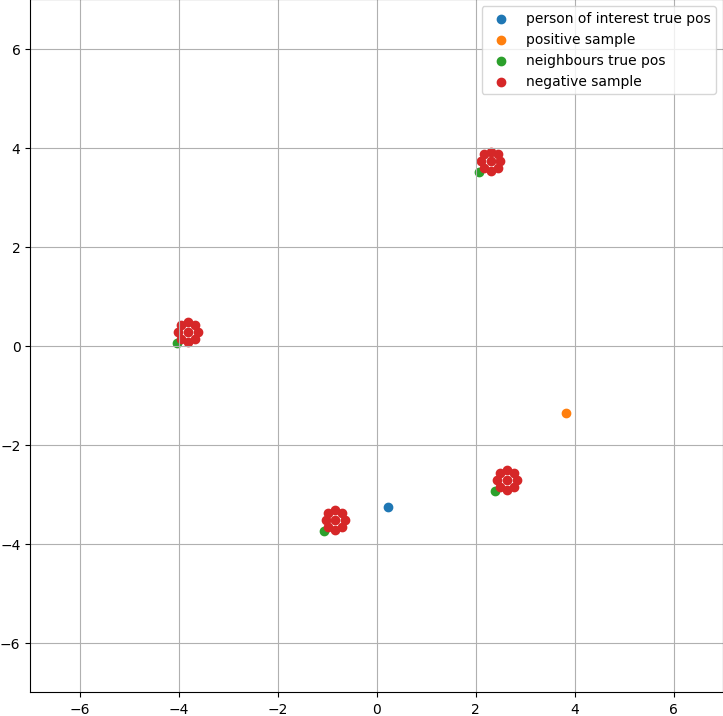
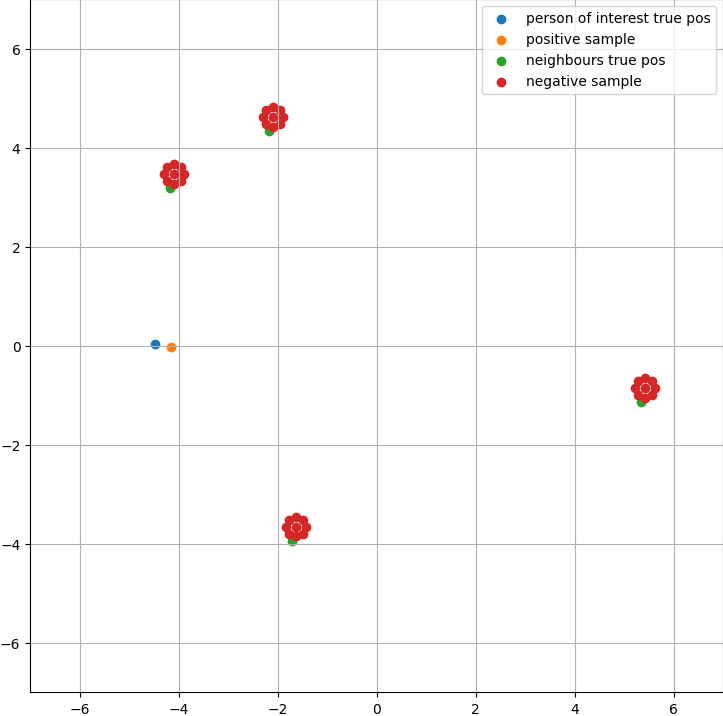
Solve visualization bug of 'true position of pedestrian of interest'

diff --git a/trajnetbaselines/lstm/contrastive.py b/trajnetbaselines/lstm/contrastive.py
@@ -79,8 +79,7 @@ class SocialNCE():
         # traj_primary: 21x2 (time x coordinate)
         # traj_neighbour: 21x3x2 (time x persons x coordinate)
 
-        (sample_pos, sample_neg) = self._sampling_spatial(batch_scene,
-                                                          batch_split)  # TODO pytorch tensor instead
+        (sample_pos, sample_neg) = self._sampling_spatial(batch_scene, batch_split)  # TODO pytorch tensor instead
 
         # visualisation
         visualize = 1
@@ -99,11 +98,15 @@ class SocialNCE():
                 #     ax.plot(neighbor[:, i, 0], neighbor[:, i, 1], 'b-.')
 
                 # Displaying the positions of the person of interest
-                # TODO: there is a bug
-                #  Very strange: the first picture is systematically always good! But not the following ones...
+                # TODO: Remove next lines of comments once you have understood why we had a visualization problem here!
                 # True position
-                ax.scatter(batch_scene[self.obs_length, i, 0],
-                           batch_scene[self.obs_length, i, 1],
+                # False ❌:
+                # ax.scatter(batch_scene[self.obs_length, i, 0],
+                #            batch_scene[self.obs_length, i, 1],
+                #            label="person of interest true pos")
+                # Correct ✅:
+                ax.scatter(batch_scene[self.obs_length, batch_split[i], 0],
+                           batch_scene[self.obs_length, batch_split[i], 1],
                            label="person of interest true pos")
                 # Positive sample
                 ax.scatter(sample_pos[i, 0], sample_pos[i, 1],
@@ -111,10 +114,8 @@ class SocialNCE():
 
                 # Displaying the position of the neighbours
                 # True position
-                ax.scatter(batch_scene[self.obs_length,
-                           batch_split[i] + 1:batch_split[i + 1], 0].view(-1),
-                           batch_scene[self.obs_length,
-                           batch_split[i] + 1:batch_split[i + 1], 1].view(-1),
+                ax.scatter(batch_scene[self.obs_length, batch_split[i] + 1:batch_split[i + 1], 0].view(-1),
+                           batch_scene[self.obs_length, batch_split[i] + 1:batch_split[i + 1], 1].view(-1),
                            label="neighbours true pos")
                 # Negative sample
                 ax.scatter(sample_neg[i, :, 0].view(-1),
@@ -136,10 +137,8 @@ class SocialNCE():
         # -----------------------------------------------------
         # 12x40x8                             12x40x128
         interestsID = batch_split[0:-1]
-        emb_obsv = self.head_projection(batch_feat[self.obs_length, interestsID,
-                                        :])  # TODO should not the whole batch
-        query = nn.functional.normalize(emb_obsv,
-                                        dim=-1)  # TODO might not be dim 1
+        emb_obsv = self.head_projection(batch_feat[self.obs_length, interestsID, :])  # TODO should not the whole batch
+        query = nn.functional.normalize(emb_obsv, dim=-1)  # TODO might not be dim 1
 
         # Embedding is not necessarily a dimension reduction process! Here we
         # want to find a way to compute the similarity btw. the motion features
@@ -167,8 +166,7 @@ class SocialNCE():
                                            mask_normal_space[:, :, 1])
         sim_neg[mask_new_space] = -10
 
-        logits = torch.cat([sim_pos, sim_neg],
-                           dim=-1) / self.temperature  # Warning! Pos and neg samples are concatenated!
+        logits = torch.cat([sim_pos, sim_neg], dim=-1) / self.temperature  # Warning! Pos and neg samples are concatenated!
 
         # -----------------------------------------------------
         #                       NCE Loss
@@ -193,8 +191,12 @@ class SocialNCE():
         # gt_future = batch_scene[self.obs_length: self.obs_length+self.pred_length]
 
         # Selecting only the first pred sample (i.e. the prediction for the first timestamp)
-        # (persons x coordinates) --> for instance 39 x 2
+        # (persons x coordinates) --> gt_future is for instance of size 39 x 2
         gt_future = batch_scene[self.obs_length]
+        # Note: Since the first 9 frames of the scene correspond to observations
+        # and since Python uses zero-based indexing, the first location prediction
+        # sample (i.e. the 10th element in batch_scene) is accessed as
+        # "batch_scene[9]" (i.e. "batch_scene[self.obs_length]")
 
         # #####################################################
         #           TODO: fill the following code
@@ -211,14 +213,18 @@ class SocialNCE():
 
         c_e = self.noise_local
         # Retrieving the location of the pedestrians of interest only
-        personOfInterestLocation = gt_future[batch_split[0:-1],
-                                   :]  # (persons of interest x coordinates) --> for instance: 8 x 2
-        noise = np.random.multivariate_normal([0, 0], np.array(
-            [[c_e, 0], [0, c_e]]))  # (2,)
+        personOfInterestLocation = gt_future[batch_split[0:-1], :]  # (persons of interest x coordinates) --> for instance: 8 x 2
+        noise_pos = np.random.multivariate_normal([0, 0], np.array([[c_e, 0], [0, c_e]]))  # (2,)
         #                      8 x 2                   1 x 2
         # sample_pos = personOfInterestLocation + noise.reshape(1, 2) # TODO, maybe diff noise for each person (/!\ --> apparently not necessary finally, according to Liu)
         #                      8 x 2             (2,)
-        sample_pos = personOfInterestLocation + noise
+        sample_pos = personOfInterestLocation + noise_pos
+
+        # This ⤵ is equivalent to the line above ⤴
+        # sample_pos_2 = torch.zeros(personOfInterestLocation.size())
+        # for i in range(len(personOfInterestLocation)):
+        #     sample_pos_2[i] = personOfInterestLocation[i] + noise
+
         a = 1 + 1
 
         # Retrieving the location of all pedestrians
@@ -245,27 +251,24 @@ class SocialNCE():
         
         '''
         nDirection = self.agent_zone.shape[0]
-        nMaxNeighboor = 12  # TODO re-tune
+        nMaxNeighbour = 12  # TODO re-tune
 
         # sample_neg: (#persons of interest, #neigboor for this person of interest * #directions, #coordinates)
         # --> for instance: 8 x 12*9 x 2 = 8 x 108 x 2
         sample_neg = np.empty(
-            (batch_split.shape[0] - 1, nDirection * nMaxNeighboor, 2))
+            (batch_split.shape[0] - 1, nDirection * nMaxNeighbour, 2))
         sample_neg[:] = np.NaN  # populating sample_neg with NaN values
         for i in range(batch_split.shape[0] - 1):
             # traj_primary = gt_future[batch_split[i]]
-            traj_neighbour = gt_future[batch_split[i] + 1:batch_split[
-                i + 1]]  # (number of neigbours x coordinates) --> for instance: 3 x 2
+            traj_neighbour = gt_future[batch_split[i] + 1:batch_split[i + 1]]  # (number of neigbours x coordinates) --> for instance: 3 x 2
 
+            noise_neg = np.random.multivariate_normal([0, 0], np.array([[c_e, 0], [0, c_e]])) # (2,)
             # negSampleNonSqueezed: (number of neighbours x directions x coordinates) --> for instance: 3 x 9 x 2
-            #                            3 x 1 x 2                     1 x 9 x 2                               (2,)
-            negSampleNonSqueezed = traj_neighbour[:, None, :] + self.agent_zone[
-                                                                None, :,
-                                                                :] + noise  # + np.random.multivariate_normal([0, 0], np.array([[c_e, 0], [0, c_e]]))
+            #                            3 x 1 x 2                     1 x 9 x 2                (2,)
+            negSampleNonSqueezed = traj_neighbour[:, None, :] + self.agent_zone[None, :, :] + noise_neg
 
             # negSampleSqueezed: (number of neighbours * directions x coordinates) --> for instance: 27 x 2
-            negSampleSqueezed = negSampleNonSqueezed.reshape(
-                (-1, negSampleNonSqueezed.shape[2]))
+            negSampleSqueezed = negSampleNonSqueezed.reshape((-1, negSampleNonSqueezed.shape[2]))
 
             # Filling only the first part in the second dimension of sample_neg (leaving the rest as NaN values)
             sample_neg[i, 0:negSampleSqueezed.shape[0], :] = negSampleSqueezed
@@ -317,7 +320,7 @@ class EventEncoder(nn.Module):
 
 class SpatialEncoder(nn.Module):
     """
-        Spatial encoder that maps an sampled location to the embedding space
+        Spatial encoder that maps a sampled location to the embedding space
     """
 
     def __init__(self, hidden_dim, head_dim):
